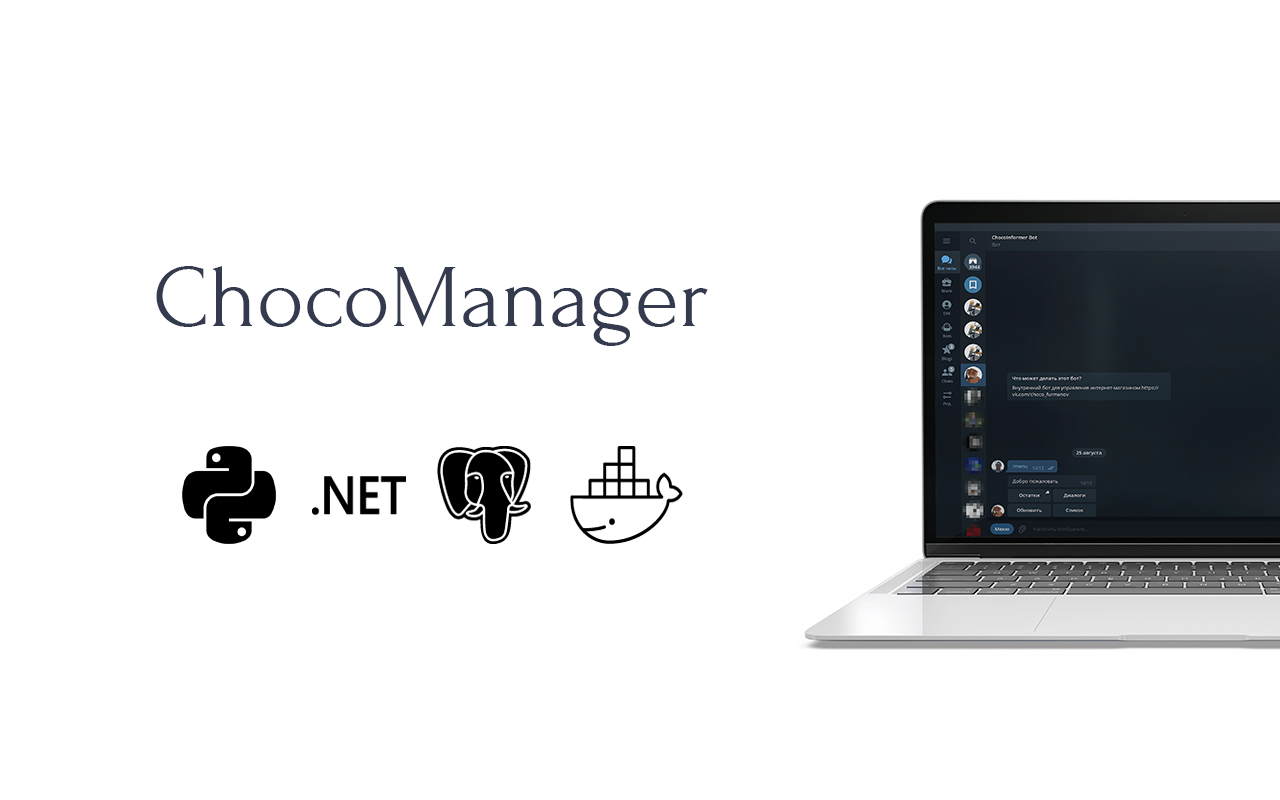
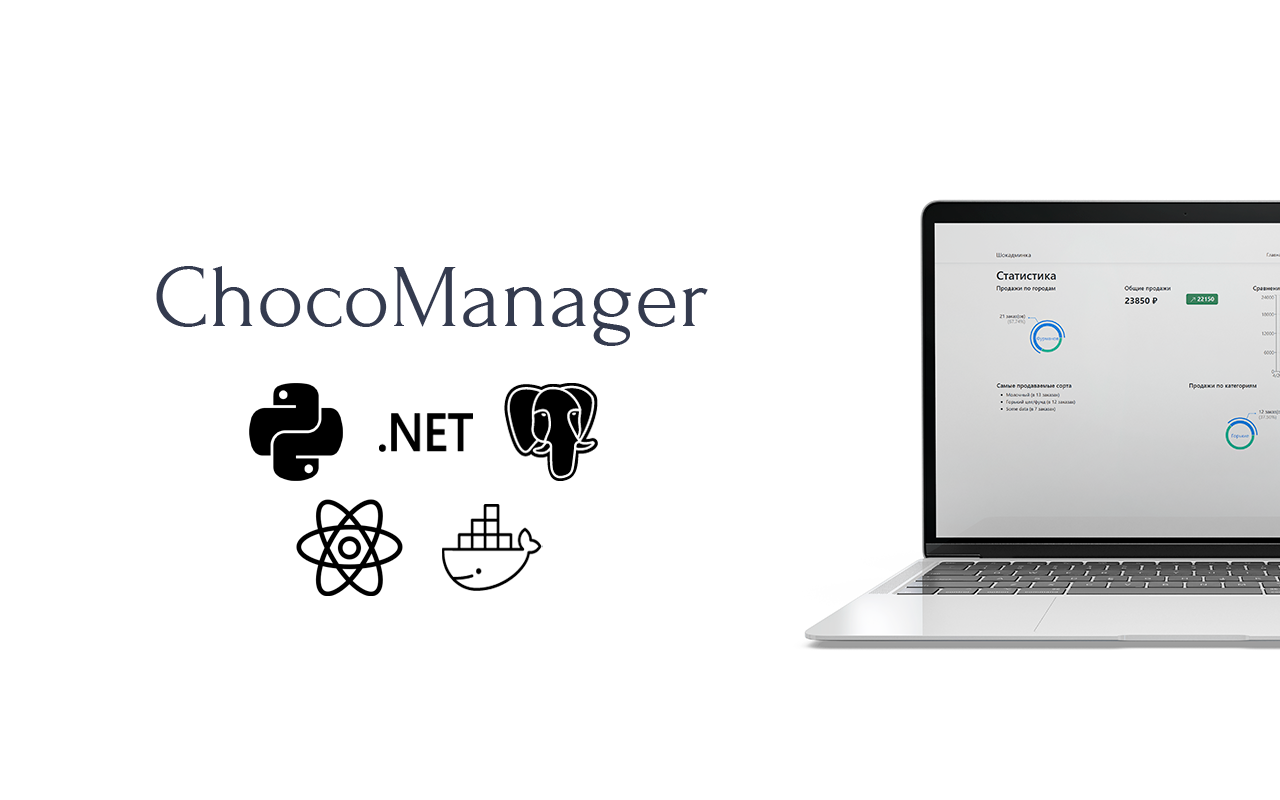
update description of project; update thumbnails

Changed region(s): [[0.7188, 0.2812, 1.0, 0.6875], [0.125, 0.4688, 0.5312, 0.75]]

diff --git a/pages/projects.tsx b/pages/projects.tsx
@@ -5,74 +5,77 @@ import {ProjectsGridItem} from "../components/projects-grid-item";
 import React from "react";
 
 const Projects = () => {
-  return (
-    <Layout title={"Проекты"}>
-      <Container my={5}>
-        <Heading as={"h2"} variant={"page-title"} mb={4}>
-          Проекты
-        </Heading>
+    return (
+        <Layout title={"Проекты"}>
+            <Container my={5}>
+                <Heading as={"h2"} variant={"page-title"} mb={4}>
+                    Проекты
+                </Heading>
 
-        <Section>
-          <Heading as={"h3"} variant={"sectionTitle"}>
-            Личные
-          </Heading>
-          <SimpleGrid columns={[1, 1, 2]} gap={6}>
-            <ProjectsGridItem
-              id={"choco"}
-              title={"ChocoManager"}
-              labels={[
-                "Python",
-                "FastAPI",
-                "C#",
-                "ASP.NET",
-                "EF Core",
-                "Docker Compose",
-                "PostgreSQL",
-                "VK API",
-                "Telegram API"
-              ]}
-              thumbnails={[
-                "/images/projects/choco/webp/common/thumbnail.webp",
-                "/images/projects/choco/png/common/thumbnail.png"
-              ]}
-            >
-              Система работы с клиентами и остатками в интернет-магазине
-            </ProjectsGridItem>
-            <ProjectsGridItem
-              id={"cv"}
-              title={"Сайт-резюме"}
-              labels={["React", "Next.js", "Typescript"]}
-              thumbnails={[
-                "/images/projects/cv/webp/common/thumbnail.webp",
-                "/images/projects/cv/png/common/thumbnail.png"
-              ]}
-            >
-              Этот сайт с резюме и перечнем реализованных проектов
-            </ProjectsGridItem>
-          </SimpleGrid>
-        </Section>
-        <Section>
-          <Heading as={"h3"} variant={"sectionTitle"}>
-            Работа в команде
-          </Heading>
-          <SimpleGrid columns={[1, 1, 2]} gap={6}>
-            <ProjectsGridItem
-              id={"star"}
-              title={"Student Archive"}
-              labels={["Java", "Spark framework", "JDBC", "PostgreSQL"]}
-              thumbnails={[
-                "/images/projects/star/webp/thumbnail.webp",
-                "/images/projects/star/png/thumbnail.png"
-              ]}
-            >
-              Приложение для архивирования полезных учебных материалов
-              (лабораторные работы, методические материалы и пр.)
-            </ProjectsGridItem>
-          </SimpleGrid>
-        </Section>
-      </Container>
-    </Layout>
-  );
+                <Section>
+                    <Heading as={"h3"} variant={"sectionTitle"}>
+                        Личные
+                    </Heading>
+                    <SimpleGrid columns={[1, 1, 2]} gap={6}>
+                        <ProjectsGridItem
+                            id={"choco"}
+                            title={"ChocoManager"}
+                            labels={[
+                                "Python",
+                                "FastAPI",
+                                "C#",
+                                "ASP.NET",
+                                "EF Core",
+                                "Docker",
+                                "Docker Compose",
+                                "PostgreSQL",
+                                "VK API",
+                                "Telegram API",
+                                "Javascript",
+                                "React"
+                            ]}
+                            thumbnails={[
+                                "/images/projects/choco/webp/common/thumbnail.webp",
+                                "/images/projects/choco/png/common/thumbnail.png"
+                            ]}
+                        >
+                            Система работы с клиентами и остатками в интернет-магазине
+                        </ProjectsGridItem>
+                        <ProjectsGridItem
+                            id={"cv"}
+                            title={"Сайт-резюме"}
+                            labels={["React", "Next.js", "Typescript"]}
+                            thumbnails={[
+                                "/images/projects/cv/webp/common/thumbnail.webp",
+                                "/images/projects/cv/png/common/thumbnail.png"
+                            ]}
+                        >
+                            Этот сайт с резюме и перечнем реализованных проектов
+                        </ProjectsGridItem>
+                    </SimpleGrid>
+                </Section>
+                <Section>
+                    <Heading as={"h3"} variant={"sectionTitle"}>
+                        Работа в команде
+                    </Heading>
+                    <SimpleGrid columns={[1, 1, 2]} gap={6}>
+                        <ProjectsGridItem
+                            id={"star"}
+                            title={"Student Archive"}
+                            labels={["Java", "Spark framework", "JDBC", "PostgreSQL"]}
+                            thumbnails={[
+                                "/images/projects/star/webp/thumbnail.webp",
+                                "/images/projects/star/png/thumbnail.png"
+                            ]}
+                        >
+                            Приложение для архивирования полезных учебных материалов
+                            (лабораторные работы, методические материалы и пр.)
+                        </ProjectsGridItem>
+                    </SimpleGrid>
+                </Section>
+            </Container>
+        </Layout>
+    );
 };
 
 export default Projects;
